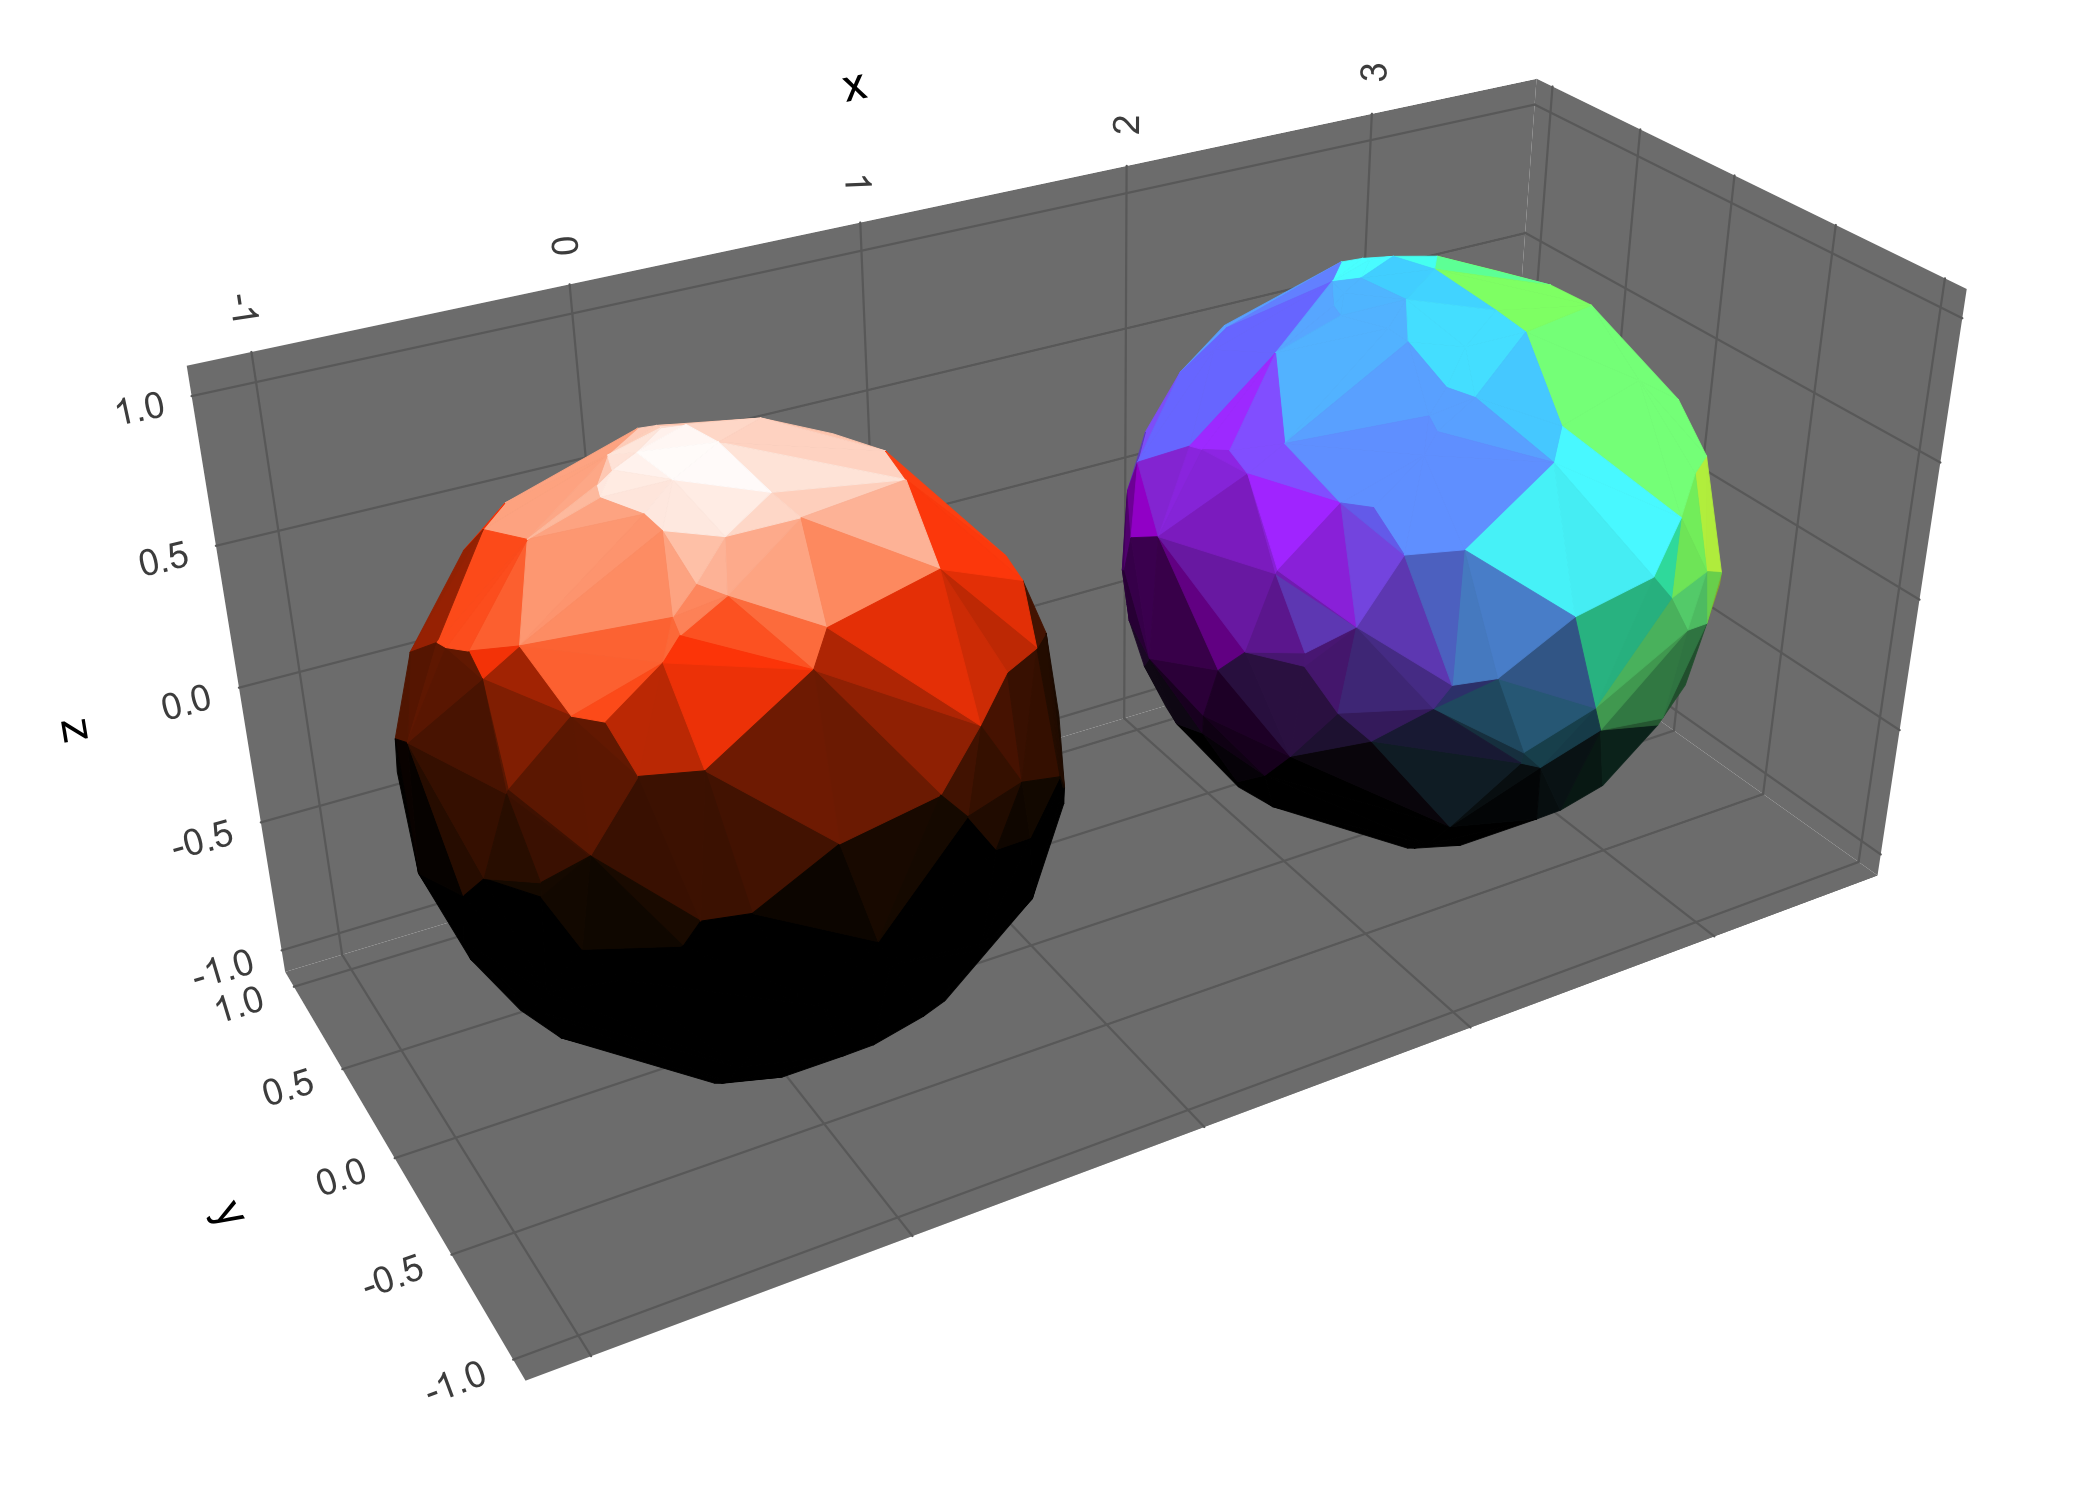
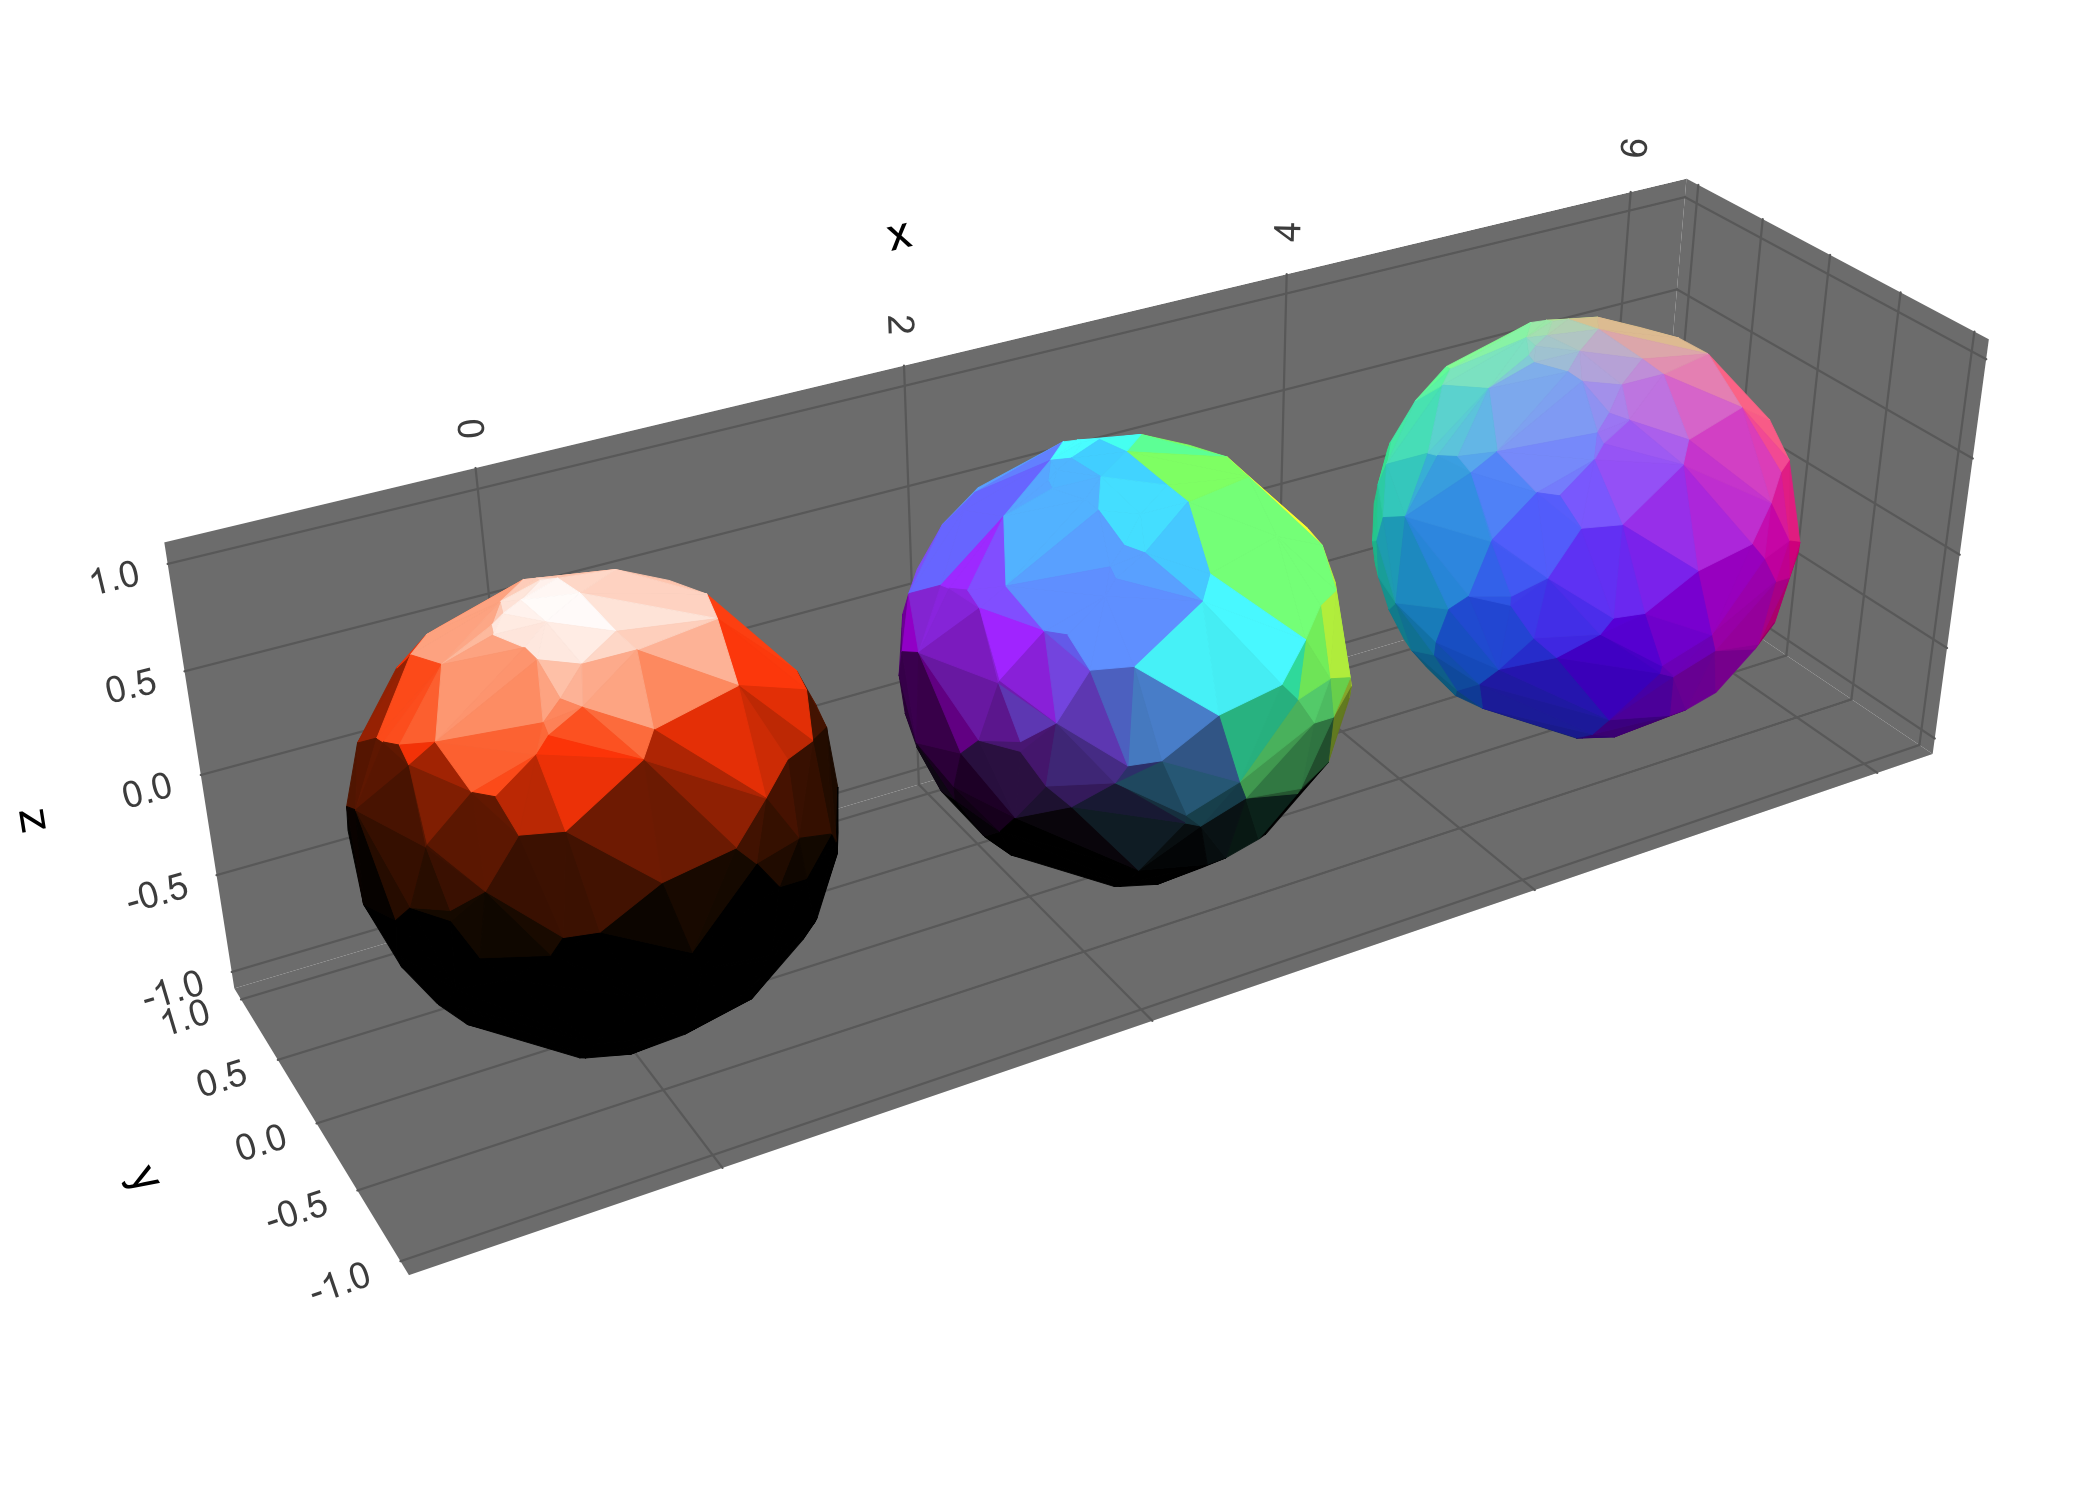
document rgb lighting updates

diff --git a/README.md b/README.md
@@ -6,22 +6,19 @@
 <!-- badges: start -->
 <!-- badges: end -->
 
-**ggcube** extends ggplot2 to support 3D figures. Use it to create 3D
-scatter plots, surfaces, volumes, and complex layered visualizations
+**ggcube** lets you build 3D figures using ggplot2. Use it to create 3D
+surfaces, volumes, scatter plots, and complex layered visualizations
 using familiar ggplot2 syntax with `aes(x, y, z)` and `coord_3d()`.
 
-The package provides a variety of 3D-specific `geom` functions to render
-surfaces, prisms, points, and paths in 3D. You can control plot geometry
-with 3D projection parameters, can apply a range of 3D lighting models,
-and can mix 3D layers with 2D layers rendered on cube faces.
-
-**ggcube** aims for seamless integration with ggplot2. Standard ggplot2
-features work as expected, including faceting, themes, scales, legends,
-and layering. In addition to the 3D-specific functions, it also works
-with many existing ggplot2 stats and geoms.
+The package provides a variety of 3D-specific `geoms` to render
+surfaces, prisms, points, and paths in 3D; it also works with some
+standard ggplot2 layer functions. You can control plot geometry with 3D
+projection parameters, can apply a range of 3D lighting models, and can
+mix 3D layers with 2D layers rendered on cube faces. Standard ggplot2
+features like faceting, themes, scales, and legends work as expected.
 
 WARNING: This package is in development and has not yet been officially
-released. Bugs and breaking changes are not unlikely.
+released. There are bugs, and future API changes are possible.
 
 ## Installation
 
@@ -50,13 +47,15 @@ ggplot(mpg, aes(x = displ, y = hwy, z = drv, color = class)) +
 
 <img src="man/figures/README-quickstart-1.png" width="100%" />
 
-You can control plot rotation and perspective, as well as axis label
-placement and panel selection, via parameters to `coord_3d()`:
+You can control plot rotation, perspective, and dimensions, as well as
+axis label placement and panel selection, via parameters to
+`coord_3d()`:
 
 ``` r
 ggplot(mpg, aes(displ, hwy, drv, color = class)) +
       geom_point() +
-      coord_3d(pitch = 0, roll = 60, yaw = 0, dist = 1.4, panels = "all") +
+      coord_3d(pitch = 0, roll = 60, yaw = 0, dist = 1.4, 
+               ratio = c(2, 1, 1), panels = "all") +
       theme(panel.border = element_rect(color = "black"),
             panel.foreground = element_rect(alpha = .1))
 ```
@@ -195,15 +194,19 @@ ggplot(sphere_points, aes(x, y, z)) +
       theme_dark() +
       theme(legend.position = "none") +
       
-      # add shading to solid color/fill
+      # apply shading to solid color/fill
       geom_hull_3d(fill = "#8a2900", color = "#8a2900",
                    light = light(method = "direct", mode = "hsl", 
                                  direction = c(0, 0, 1))) +
       
-      # add shading to aesthetic color/fill
+      # apply shading to aesthetic color/fill
       geom_hull_3d(aes(x = x + 2.5, fill = x, color = x),
                    light = light(method = "diffuse", mode = "hsv", 
-                                 direction = c(0, 0, 1), contrast = 2))
+                                 direction = c(0, 0, 1), contrast = 2)) +
+      
+      # map surface orientation to 3D RGB color channels
+      geom_hull_3d(aes(x = x + 5),
+                   light = light(method = "rgb", direction = c(0, 0, 1)))
 ```
 
 <img src="man/figures/README-lighting-1.png" width="100%" />
